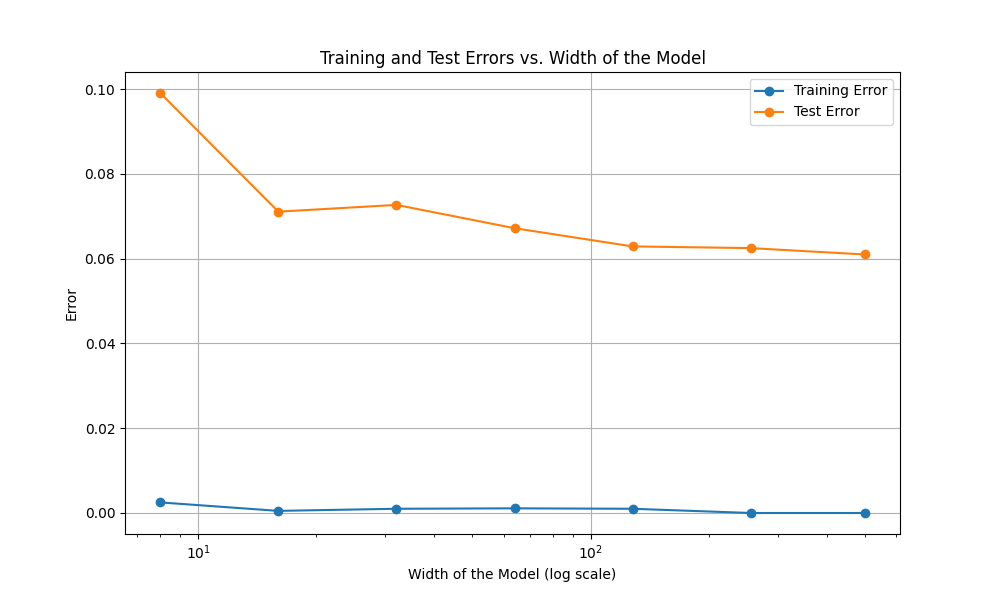
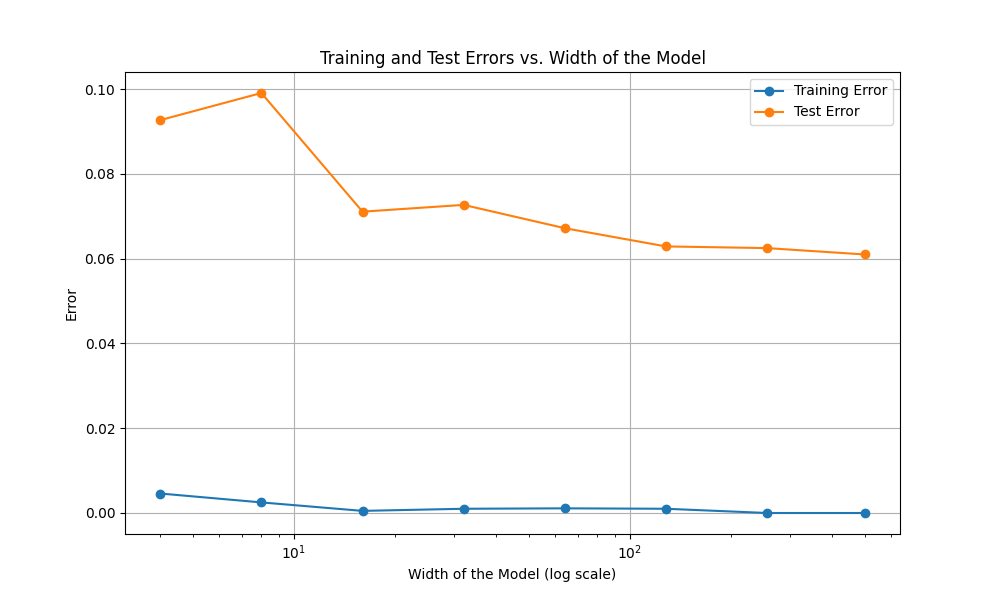
Refactor code structure for improved readability and maintainability

diff --git a/main.py b/main.py
@@ -149,7 +149,7 @@ def main():
         sigma_gauss_prior=5.0,
         device=device,
         n_hidden_layers=1,  # 1 or 2 or 3 hidden layers, if you put 'L' it will be LeNet5 for MNIST and if you put 'V' it will be VGG16 for CIFAR10
-        width=4, # Width of each hidden layer, only for fully connected networks
+        width=8, # Width of each hidden layer, only for fully connected networks
         dataset_type=DATASET_TYPE,  # 'cifar10' or 'mnist'
         use_random_labels=USE_RANDOM_LABELS,
         l_max=4.0,
@@ -162,7 +162,7 @@ def main():
         eps=-1e-7,
         test_mode=TEST_MODE,
         add_grad_norm=True,
-        add_noise=False,  # If False, it becomes (S)GD
+        add_noise=True,  # If False, it becomes (S)GD
         sgld_num=1,  # Choose SGLD variant: 1 or 2
         annealed=False,  # Whether to use annealed SGLD
         min_steps_first_beta=4000,  # For annealing: min steps for first beta>0 (ignored if annealed=False)